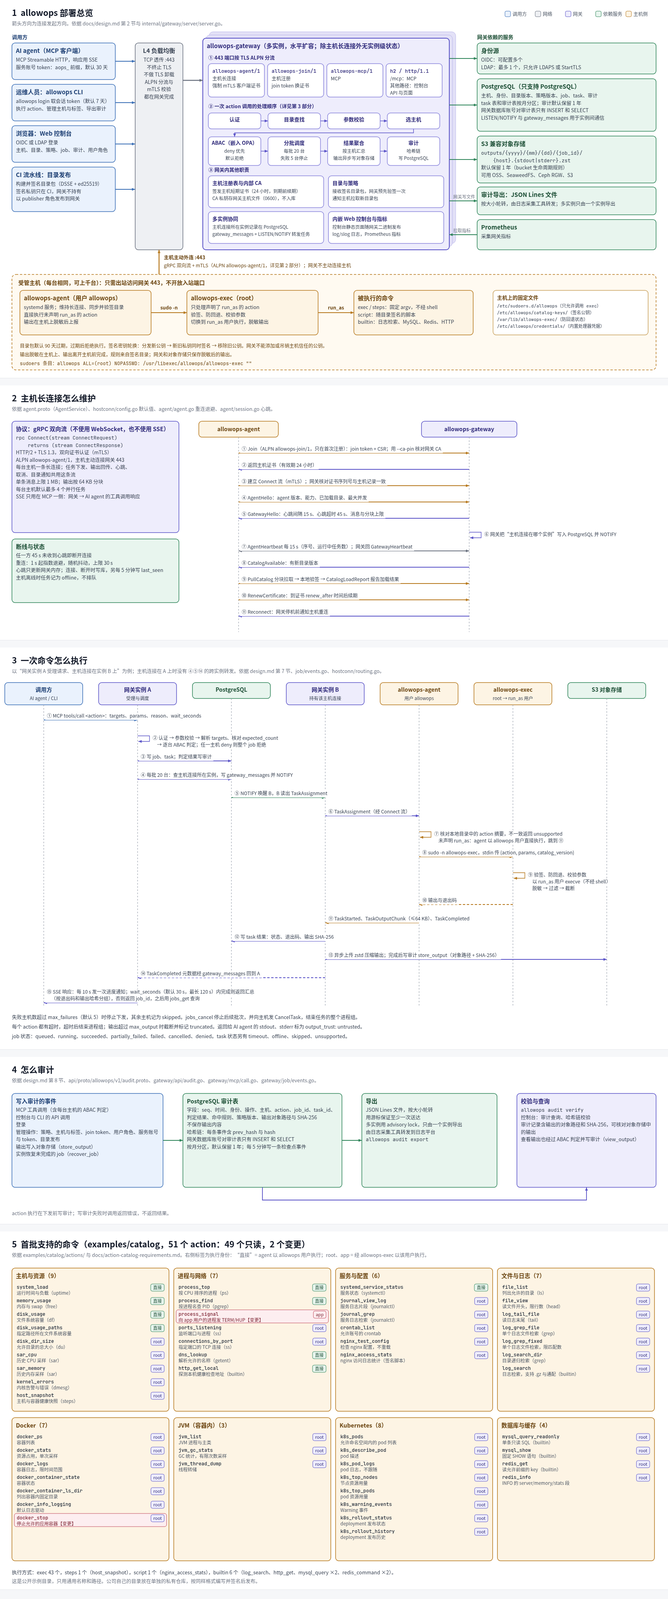
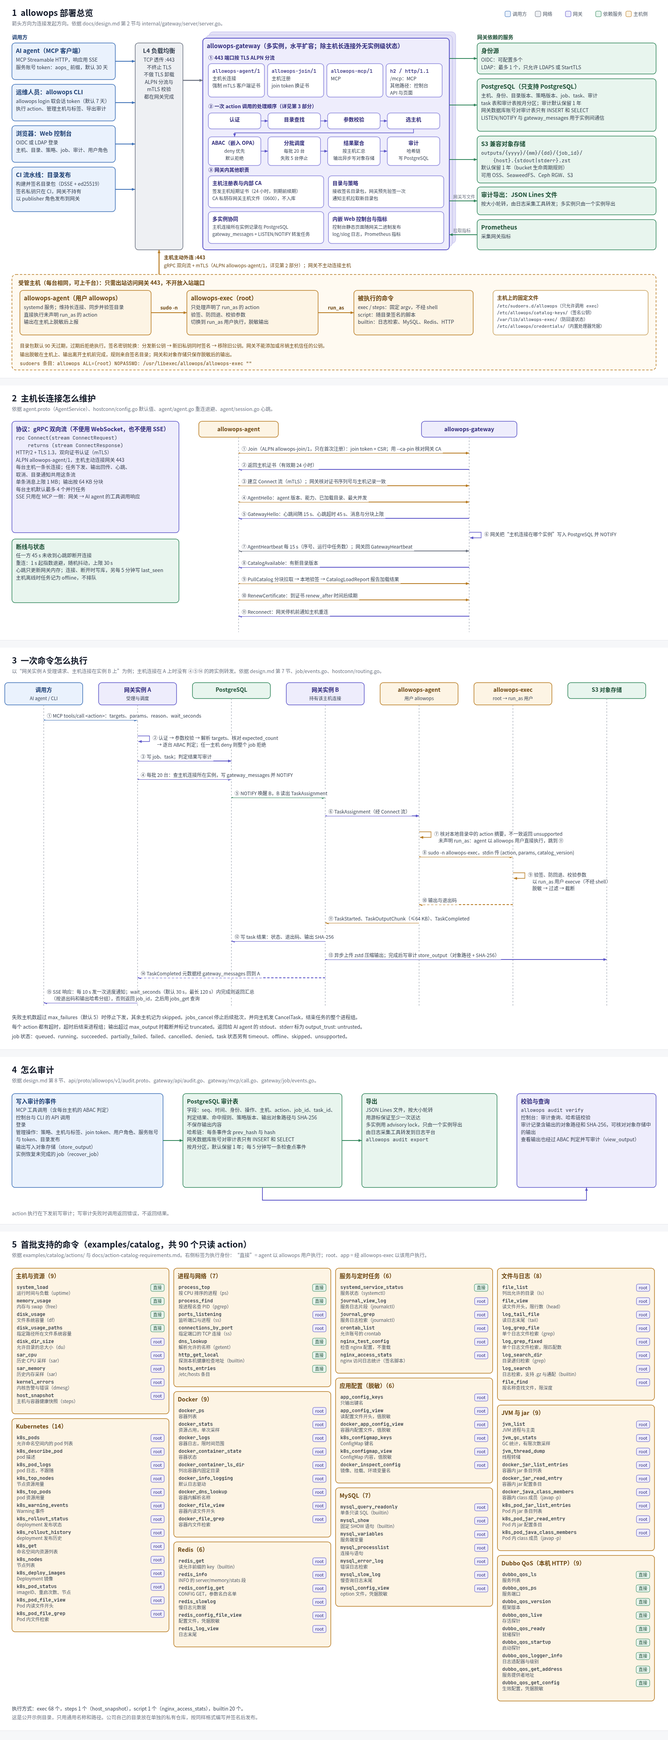
docs(catalog): record round 4 review results, redaction rules and corrected counts

diff --git a/docs/architecture-diagram.html b/docs/architecture-diagram.html
@@ -300,40 +300,43 @@ arrow([[a2.cx, a2.b], [a2.cx, 360], [a4.cx, 360], [a4.cx, a4.b]], { color: C.gw.
 label('action 执行在下发前写审计；写审计失败时调用返回错误，不返回结果。', 30, 398, { fs: 12.5, color: '#6b7280' });
 
 // ═════════ 5. 首批支持的命令 ═════════
-canvas('actions', 900);
-heading('5', '首批支持的命令（examples/catalog，首批 49 个只读 action）', '依据 examples/catalog/actions/ 与 docs/action-catalog-requirements.md。右侧标签为执行身份：“直接”= agent 以 allowops 用户执行；root、app = 经 allowops-exec 以该用户执行。');
 const groups = [
   ['主机与资源', [
-    ['system_load', '运行时间与负载（uptime）', '直接'], ['memory_usage', '内存与 swap（free）', '直接'], ['disk_usage', '文件系统容量（df）', '直接'],
-    ['disk_usage_paths', '指定路径所在文件系统容量', '直接'], ['disk_dir_size', '允许目录的总大小（du）', 'root'], ['sar_cpu', '历史 CPU 采样（sar）', 'root'],
-    ['sar_memory', '历史内存采样（sar）', 'root'], ['kernel_errors', '内核告警与错误（dmesg）', 'root'], ['host_snapshot', '主机与容器健康快照（steps）', 'root']]],
+    ['system_load', '运行时间与负载（uptime）', '直接'], ['memory_usage', '内存与 swap（free）', '直接'], ['disk_usage', '文件系统容量（df）', '直接'], ['disk_usage_paths', '指定路径所在文件系统容量', '直接'], ['disk_dir_size', '允许目录的总大小（du）', 'root'], ['sar_cpu', '历史 CPU 采样（sar）', 'root'], ['sar_memory', '历史内存采样（sar）', 'root'], ['kernel_errors', '内核告警与错误（dmesg）', 'root'], ['host_snapshot', '主机与容器健康快照（steps）', 'root']]],
   ['进程与网络', [
-    ['process_top', '按 CPU 排序的进程（ps）', '直接'], ['process_find', '按进程名查 PID（pgrep）', '直接'],
-    ['ports_listening', '监听端口与进程（ss）', 'root'], ['connections_by_port', '指定端口的 TCP 连接（ss）', 'root'], ['dns_lookup', '解析允许的名称（getent）', '直接'],
-    ['http_get_local', '探测本机健康检查地址（builtin）', '直接']]],
-  ['服务与配置', [
-    ['systemd_service_status', '服务状态（systemctl）', '直接'], ['journal_view_log', '服务日志片段（journalctl）', 'root'], ['journal_grep', '服务日志检索（journalctl）', 'root'],
-    ['crontab_list', '允许账号的 crontab', 'root'], ['nginx_test_config', '检查 nginx 配置，不重载', 'root'], ['nginx_access_stats', 'nginx 访问日志统计（签名脚本）', 'root']]],
+    ['process_top', '按 CPU 排序的进程（ps）', '直接'], ['process_find', '按进程名查 PID（pgrep）', '直接'], ['ports_listening', '监听端口与进程（ss）', 'root'], ['connections_by_port', '指定端口的 TCP 连接（ss）', 'root'], ['dns_lookup', '解析允许的名称（getent）', '直接'], ['http_get_local', '探测本机健康检查地址（builtin）', '直接'], ['hosts_entries', '/etc/hosts 条目', '直接']]],
+  ['服务与定时任务', [
+    ['systemd_service_status', '服务状态（systemctl）', '直接'], ['journal_view_log', '服务日志片段（journalctl）', 'root'], ['journal_grep', '服务日志检索（journalctl）', 'root'], ['crontab_list', '允许账号的 crontab', 'root'], ['nginx_test_config', '检查 nginx 配置，不重载', 'root'], ['nginx_access_stats', 'nginx 访问日志统计（签名脚本）', 'root']]],
   ['文件与日志', [
-    ['file_list', '列出允许的目录（ls）', 'root'], ['file_view', '读文件开头，限行数（head）', 'root'], ['log_tail_file', '读日志末尾（tail）', 'root'],
-    ['log_grep_file', '单个日志文件检索（grep）', 'root'], ['log_grep_fixed', '单个日志文件检索，限匹配数', 'root'], ['log_search_dir', '目录递归检索（grep）', 'root'],
-    ['log_search', '日志检索，支持 .gz 与通配（builtin）', 'root']]],
+    ['file_list', '列出允许的目录（ls）', 'root'], ['file_view', '读文件开头，限行数（head）', 'root'], ['log_tail_file', '读日志末尾（tail）', 'root'], ['log_grep_file', '单个日志文件检索（grep）', 'root'], ['log_grep_fixed', '单个日志文件检索，限匹配数', 'root'], ['log_search_dir', '目录递归检索（grep）', 'root'], ['log_search', '日志检索，支持 .gz 与通配（builtin）', 'root'], ['file_find', '按名称查找文件，限深度', 'root']]],
+  ['应用配置（脱敏）', [
+    ['app_config_keys', '只输出键名', 'root'], ['app_config_view', '读配置文件开头，值脱敏', 'root'], ['docker_app_config_view', '容器内配置文件，值脱敏', 'root'], ['k8s_configmap_keys', 'ConfigMap 键名', 'root'], ['k8s_configmap_view', 'ConfigMap 内容，值脱敏', 'root'], ['docker_inspect_config', '镜像、挂载、环境变量名', 'root']]],
   ['Docker', [
-    ['docker_ps', '容器列表', 'root'], ['docker_stats', '资源占用，单次采样', 'root'], ['docker_logs', '容器日志，限时间范围', 'root'],
-    ['docker_container_state', '容器状态', 'root'], ['docker_container_ls_dir', '列出容器内固定目录', 'root'], ['docker_info_logging', '默认日志驱动', 'root']]],
-  ['JVM（容器内）', [
-    ['jvm_list', 'JVM 进程与主类', 'root'], ['jvm_gc_stats', 'GC 统计，有限次数采样', 'root'], ['jvm_thread_dump', '线程转储', 'root']]],
+    ['docker_ps', '容器列表', 'root'], ['docker_stats', '资源占用，单次采样', 'root'], ['docker_logs', '容器日志，限时间范围', 'root'], ['docker_container_state', '容器状态', 'root'], ['docker_container_ls_dir', '列出容器内固定目录', 'root'], ['docker_info_logging', '默认日志驱动', 'root'], ['docker_dns_lookup', '容器内解析名称', 'root'], ['docker_file_view', '容器内读文件开头', 'root'], ['docker_file_grep', '容器内文件检索', 'root']]],
+  ['JVM 与 jar', [
+    ['jvm_list', 'JVM 进程与主类', 'root'], ['jvm_gc_stats', 'GC 统计，有限次数采样', 'root'], ['jvm_thread_dump', '线程转储', 'root'], ['docker_jar_list_entries', '容器内 jar 条目列表', 'root'], ['docker_jar_read_entry', '容器内 jar 配置条目', 'root'], ['docker_java_class_members', '容器内 class 成员（javap -p）', 'root'], ['k8s_pod_jar_list_entries', 'Pod 内 jar 条目列表', 'root'], ['k8s_pod_jar_read_entry', 'Pod 内 jar 配置条目', 'root'], ['k8s_pod_java_class_members', 'Pod 内 class 成员（javap -p）', 'root']]],
   ['Kubernetes', [
-    ['k8s_pods', '允许命名空间内的 pod 列表', 'root'], ['k8s_describe_pod', 'pod 描述', 'root'], ['k8s_pod_logs', 'pod 日志，不跟随', 'root'],
-    ['k8s_top_nodes', '节点资源用量', 'root'], ['k8s_top_pods', 'pod 资源用量', 'root'], ['k8s_warning_events', 'Warning 事件', 'root'],
-    ['k8s_rollout_status', 'deployment 发布状态', 'root'], ['k8s_rollout_history', 'deployment 发布历史', 'root']]],
-  ['数据库与缓存', [
-    ['mysql_query_readonly', '单条只读 SQL（builtin）', 'root'], ['mysql_show', '固定 SHOW 语句（builtin）', 'root'],
-    ['redis_get', '读允许前缀的 key（builtin）', 'root'], ['redis_info', 'INFO 的 server/memory/stats 段', 'root']]],
+    ['k8s_pods', '允许命名空间内的 pod 列表', 'root'], ['k8s_describe_pod', 'pod 描述', 'root'], ['k8s_pod_logs', 'pod 日志，不跟随', 'root'], ['k8s_top_nodes', '节点资源用量', 'root'], ['k8s_top_pods', 'pod 资源用量', 'root'], ['k8s_warning_events', 'Warning 事件', 'root'], ['k8s_rollout_status', 'deployment 发布状态', 'root'], ['k8s_rollout_history', 'deployment 发布历史', 'root'], ['k8s_get', '命名空间内资源列表', 'root'], ['k8s_nodes', '节点列表', 'root'], ['k8s_deploy_images', 'Deployment 镜像', 'root'], ['k8s_pod_status', 'imageID、重启次数、节点', 'root'], ['k8s_pod_file_view', 'Pod 内读文件开头', 'root'], ['k8s_pod_file_grep', 'Pod 内文件检索', 'root']]],
+  ['MySQL', [
+    ['mysql_query_readonly', '单条只读 SQL（builtin）', 'root'], ['mysql_show', '固定 SHOW 语句（builtin）', 'root'], ['mysql_variables', '服务端变量', 'root'], ['mysql_processlist', '连接与语句', 'root'], ['mysql_error_log', '错误日志检索', 'root'], ['mysql_slow_log', '慢查询日志末尾', 'root'], ['mysql_config_view', 'option 文件，凭据脱敏', 'root']]],
+  ['Redis', [
+    ['redis_get', '读允许前缀的 key（builtin）', 'root'], ['redis_info', 'INFO 的 server/memory/stats 段', 'root'], ['redis_config_get', 'CONFIG GET，参数名白名单', 'root'], ['redis_slowlog', '慢日志元数据', 'root'], ['redis_config_file_view', '配置文件，凭据脱敏', 'root'], ['redis_log_view', '日志末尾', 'root']]],
+  ['Dubbo QoS（本机 HTTP）', [
+    ['dubbo_qos_ls', '服务列表', '直接'], ['dubbo_qos_ps', '服务端口', '直接'], ['dubbo_qos_version', '框架版本', '直接'], ['dubbo_qos_live', '存活探针', '直接'], ['dubbo_qos_ready', '就绪探针', '直接'], ['dubbo_qos_startup', '启动探针', '直接'], ['dubbo_qos_logger_info', '日志适配器与级别', '直接'], ['dubbo_qos_get_address', '服务提供者地址', '直接'], ['dubbo_qos_get_config', '生效配置，凭据脱敏', '直接']]],
 ];
-const gw4 = 395, gh = 360;
+const gw4 = 395, rowH = 34;
+const gHeight = (items) => 52 + items.length * rowH + 8;
+const colY = [92, 92, 92, 92], place = [];
+groups.forEach(([title, items]) => {
+  let c = 0; for (let k = 1; k < 4; k++) if (colY[k] < colY[c]) c = k;
+  place.push([30 + c * (gw4 + 12), colY[c], gHeight(items)]);
+  colY[c] += gHeight(items) + 12;
+});
+const footY = Math.max(...colY) + 12;
+canvas('actions', footY + 50);
+heading('5', '首批支持的命令（examples/catalog，共 90 个只读 action）', '依据 examples/catalog/actions/ 与 docs/action-catalog-requirements.md。右侧标签为执行身份：“直接”= agent 以 allowops 用户执行；root、app = 经 allowops-exec 以该用户执行。');
 groups.forEach(([title, items], i) => {
-  const x = 30 + (i % 4) * (gw4 + 12), y = 92 + Math.floor(i / 4) * (gh + 16);
+  const [x, y, gh] = place[i];
   box(x, y, gw4, gh, C.host, `${title}（${items.length}）`, [], { ts: 14.5 });
   items.forEach(([n, d, who, write], k) => {
     const yy = y + 52 + k * 34;
@@ -346,8 +349,8 @@ groups.forEach(([title, items], i) => {
     label(who, x + gw4 - tw / 2 - 12, yy + 1, { fs: 11, color: tc.title, align: 'center' });
   });
 });
-label('执行方式：exec 43 个，steps 1 个（host_snapshot），script 1 个（nginx_access_stats），builtin 6 个（log_search、http_get、mysql_query ×2、redis_command ×2）。', 30, 862, { fs: 12.5 });
-label('这是公开示例目录，只用通用名称和路径。公司自己的目录放在单独的私有仓库，按同样格式编写并签名后发布。', 30, 884, { fs: 12.5, color: '#6b7280' });
+label('执行方式：exec 68 个，steps 1 个（host_snapshot），script 1 个（nginx_access_stats），builtin 20 个。', 30, footY, { fs: 12.5 });
+label('这是公开示例目录，只用通用名称和路径。公司自己的目录放在单独的私有仓库，按同样格式编写并签名后发布。', 30, footY + 22, { fs: 12.5, color: '#6b7280' });
 </script>
 </body>
 </html>

diff --git a/docs/action-catalog-requirements.md b/docs/action-catalog-requirements.md
@@ -4,7 +4,7 @@
 
 allowops 只执行运维人员预先定义、评审并签名的 action。本节点提供公开示例的需求和 YAML，不实现执行器，不生成已签名目录包。
 
-依据为 `design.md` 第 4、5 节及扩展执行能力表，`architecture-decisions.md` 第 9、13、18、20、21 节。AC1B 按 `internal/catalog/`、`internal/params/`、`internal/builtin/` 和 `internal/executor/` 的实际字段与行为对齐。本文与 `examples/catalog/actions/` 一一对应，共 90 个 action，均为 risk: read；2026-10-22 起删除了 docker_stop、process_signal 两个写操作，并按 `action-usage-analysis.md` 第 6.5 节新增 34 个只读 action（含替换 dns_lookup 的定义）；审阅后 `app_config_grep`、`docker_app_config_grep` 删除并由 `app_config_view`、`docker_app_config_view` 替代，`k8s_configmap_grep` 改名为 `k8s_configmap_view`；之后新增 7 个 MySQL 与 Redis 日志、参数、配置查询 action（`mysql_variables`、`mysql_processlist`、`mysql_error_log`、`mysql_slow_log`、`mysql_config_view`、`redis_config_file_view`、`redis_log_view`）。
+依据为 `design.md` 第 4、5 节及扩展执行能力表，`architecture-decisions.md` 第 9、13、18、20、21 节。AC1B 按 `internal/catalog/`、`internal/params/`、`internal/builtin/` 和 `internal/executor/` 的实际字段与行为对齐。本文与 `examples/catalog/actions/` 一一对应，共 90 个 action，均为 risk: read；2026-10-22 起删除了 docker_stop、process_signal 两个写操作，并按 `action-usage-analysis.md` 第 6.5 节相对 2026-10-22 计划基线（`44d82fb`，51 个 action）新增 41 个，修改 `dns_lookup` 和 `file_view`，删除 2 个（`git diff 44d82fb..HEAD` 统计 A 41、M 2、D 2，51 + 41 - 2 = 90）。`dns_lookup` 的定义被替换为正则约束的主机名参数，`file_view` 在第四轮审阅中增加了文件脱敏规则。新增项中，`app_config_grep`、`docker_app_config_grep` 经审阅删除并由 `app_config_view`、`docker_app_config_view` 替代，`k8s_configmap_grep` 改名为 `k8s_configmap_view`；其中 7 个是 MySQL 与 Redis 日志、参数、配置查询 action（`mysql_variables`、`mysql_processlist`、`mysql_error_log`、`mysql_slow_log`、`mysql_config_view`、`redis_config_file_view`、`redis_log_view`）。
 
 第 18 节的 19 个名称与使用分析的 39 个名称合并。重复名称共 7 个：`process_top`、`ports_listening`、`log_tail_file`、`docker_ps`、`docker_stats`、`docker_container_state`、`docker_logs`。同名定义按使用分析第 4 节合并，`ports_listening`、`log_tail_file` 增加 D1，`docker_logs` 增加 D1 和可选 until；其他同名定义保留对应用途。没有需要改名的冲突。
 
@@ -50,7 +50,17 @@ filters 是允许 agent 传入的过滤参数集合，`[]` 表示不允许过滤
 
 处理顺序为 stdout → 脱敏 → match/exclude → head/tail/count → 截断。过滤不能查询未脱敏内容；stderr 脱敏并截断，不过滤。组合 action 按步骤 stdout 独立过滤，所有步骤的 stdout+stderr 共用 max_output；普通 exec/script/builtin 的 stdout、stderr 分别受 max_output 限制。max_scan 按每个步骤 stdout 原始字节计，超限报告 scan_limit_reached；输出或处理器资源上限报告 truncated，处理器另报告 resource_limit_reached。依据：A13、A17、`internal/executor/executor.go` 的 `RunWithFilters`、`processOutput`、`runCommand`。上述任一上限标记均表示结果可能不全。
 
-所有示例保留 secrets。日志、文件内容、数据库值等额外启用 pii。action 的 redact 覆盖全局规则，因此覆盖时仍显式保留 secrets；没有示例关闭脱敏。secrets 包含第 20 节 D9 的数据库命令行及环境变量规则。pii 可能误伤数字标识，正则不能识别所有敏感内容；此目录不声称输出能全部去敏。设计规定运行时 IP 地址和主机名不脱敏，公开示例不包含任何实际环境数据。
+所有示例保留 secrets，没有示例关闭脱敏。action 的 redact 覆盖全局规则，因此覆盖时仍显式保留 secrets。额外启用 pii 的 action 共 36 个，读取日志、文件内容、配置文件、数据库值和 HTTP 响应体的 action 属于这一类；其余 54 个只保留 secrets，包括系统指标、进程和网络状态、Docker 与 K8s 元数据、jar 条目名和类成员、键名列表、`hosts_entries`（运行时地址和主机名不脱敏，不启用 pii）、除 `dubbo_qos_get_address`、`dubbo_qos_get_config` 之外的 Dubbo QoS、`mysql_variables`、`mysql_config_view`、`redis_config_file_view` 和 `redis_config_get`。这个划分以示例 YAML 为准，不表示后一类 action 的输出一定不含个人信息。pii 可能误伤数字标识，正则不能识别所有敏感内容；此目录不声称输出能全部去敏。设计规定运行时 IP 地址和主机名不脱敏，公开示例不包含任何实际环境数据。
+
+内置 secrets 规则集（`internal/redact/redact.go` 的 `secretRules`，按顺序执行）包含：阿里云和 AWS 访问密钥、JWT、`Authorization: Bearer`、URL 凭据（用户名可为空，如 `redis://:口令@host`；口令可含 `@`，取到 token 内最后一个 `@`；Oracle thin 的 `jdbc:oracle:thin:用户/口令@host`）、`MYSQL_PWD`、`REDISCLI_AUTH`、password、secret、token 后紧跟 `=` 的赋值、任意方案的 `Authorization` 与 `Proxy-Authorization` 头、`X-*-Key/Token/Secret/Auth/Pass` 头及 nginx 的 `proxy_set_header`、`add_header` 等指令、htpasswd 哈希（apr1、`$1$`、`$5$`、`$6$`、bcrypt、yescrypt、`{SHA}`、`{SSHA}`）、名称以凭据词结尾的键（`DB_PASSWORD=x`、`access_token=x`）及冒号形式 `NAME: 值`（kubectl describe pod 的 Environment 段、YAML、JSON）、命令行口令（`--password`、`--token`、`--requirepass` 等长选项，`curl -u`、`--user`、`redis-cli -a`、`sshpass -p`）和 `mysql -p`。因此 `file_view`、`log_*`、`docker_logs`、`k8s_pod_logs`、`crontab_list`、`k8s_describe_pod` 等只启用内置规则的 action 也覆盖这些形式。示例中的 `redact.custom` 规则保留，与内置规则叠加（内置先执行，自定义后执行）；测试 `TestExampleCustomRulesComposeWithBuiltinRules` 验证两种顺序都不泄露、无嵌套标记、重复脱敏结果不变。
+
+误伤取舍：冒号形式和带前缀的 `=` 形式按键名脱敏，键名必须以凭据词结尾（password、passwd、passphrase、secret、token、credential、credentials、apikey、pwd，以及 api、access、secret、private、auth、encryption、signing、master 后接可选的 `_` 或 `-` 再加 key），因此 `token_count`、`max_tokens`、`tokenizer`、`SecretName`、`TokenExpirationSeconds`、`Image Pull Secrets`、`primary_key`、`key: value`、`PWD=/opt/app` 不受影响。会被脱敏的普通日志：键名为凭据词本身且后跟冒号的句子，如 `INFO token: 5 refreshed`、`INFO password: changed successfully`、`failed to read secret: not found`。未加引号的值从冒号后脱敏到行尾，原因是口令可能含空格或逗号，只取一个词会在口令含空格时泄露后半段；加引号的值只替换引号内部，同一 JSON 行的其他字段保留。kubectl describe 中 valueFrom 引用（`<set to the key 'k' in secret 's'>  Optional: false`）整行保留，便于看到引用的 Secret 名，其他 Environment 行整行替换（变量名也被隐藏）。URL 口令中未编码的 `/` 会提前结束匹配（RFC 要求编码为 `%2F`），此时口令会明文输出。命令行规则：`-u`、`-a`、`-p` 只在同一行出现 curl、redis-cli 或 valkey-cli、sshpass 时识别，`docker exec -u 1000:1000`、`mysql -u root`、`ps -a`、`ssh -p 2222` 不受影响；`--token <名称>`、`--secret <名称>` 这类传名称的选项会被替换（过度脱敏）；`--no-*`、`--ask-*`、`--skip-*`、`--disable-*`、`--without-*` 开头的选项不替换。
+
+内置规则仍不识别：多行结构（kubectl describe 的 Command/Args 逐行输出 `--requirepass` 与口令分行、YAML 键与值分行、XML name 与 value 分行）；nginx 空白分隔的指令（`fastcgi_param DB_PASSWORD hunter2;`、`uwsgi_param API_TOKEN v;`、`binddn_passwd "v";`、`set $token v;`），因为内置规则只在 `=` 或 `:` 之后取值，这些指令由 `file_view`、五个配置读取 action 和四个容器、Pod 文件 action 的自定义规则 nginx_param_credential、nginx_secret_directive 处理；键名不含凭据词的位置上的敏感值（`login as admin/Hunter2`）；Cookie 与 Set-Cookie 头；sqlplus、connect 形式的 `user/口令@host`（只识别 `jdbc:oracle:thin|oci|oci8:` 前缀）；redis.conf 的 requirepass 指令行（由 `redis_config_file_view` 的自定义规则处理）；crypt(3) 13 字符 DES htpasswd 哈希；含 `/` 的未编码 URL 口令；`docker login -p`、`ldapsearch -w`、`htpasswd -b` 等其他命令的口令选项；curl 同一行出现多个 `-u` 时只处理第一个（`--proxy-user` 单独处理）。
+
+性能：redact 规则增加小写子串预检（`compiledRule.needs`，行内不含必要子串的规则跳过；含非 ASCII 字符的行不预检，因为 `(?i)` 会匹配 U+017F、U+212A 等字符）。实测 10 MB 普通日志（secrets 加 pii，单行约 150 字节）经 Stream 脱敏：`50f3311` 为 1.82 s（5.8 MB/s），第四轮分支为 0.37 s（约 28 MB/s）。不加预检时新规则使吞吐降到 1.4 MB/s（10 s 超时内约 14 MB），因此预检是必需的。测试 `TestRuleNeedsNeverChangeTheResult` 对 8000 条随机拼接行（含 U+017F、U+212A）比较有预检与无预检的结果必须一致。单行 1 MB 的最坏输入每次约 0.4 到 0.9 s。
+
+行为变化：`{"password":"x","user":"bob"}` 在 `docker_file_view` 等同时有 json_credential 自定义规则的 action 中，标记由 `[REDACTED:json_credential]` 变为 `[REDACTED:credential]`（内置先执行），键名前的引号会残留（`{"[REDACTED:credential],"user":"bob"}`）。`Authorization: Basic`、`Digest` 现在由内置规则脱敏，`TestSecretRuleExamples` 中 `Authorization: Basic abc` 的期望值随之改为 `[REDACTED:auth_header]`。
 
 ### 目录签名和权限
 
@@ -429,11 +439,11 @@ exec: [/usr/bin/docker, exec, '{container}', getent, hosts, '{name}']
 | run_as | root |
 | 执行方式 | exec |
 | filters | match, exclude, tail, head, count |
-| redact | secrets, pii，另有自定义规则 sensitive_property、json_credential、auth_header、api_key_header、htpasswd_hash |
+| redact | secrets, pii，另有自定义规则 sensitive_property、json_credential、auth_header、api_key_header、htpasswd_hash、nginx_param_credential、nginx_secret_directive |
 | 扩展能力 | D1、D4 |
 | 执行限制 | timeout=20s；max_output=64KB |
 | CentOS 7 | CentOS 7 需另装 Docker CLI 并运行兼容的 Docker 服务；该示例的选项是否可用须在目标版本验证。/usr/bin/docker 缺失时标记 unsupported。容器内需有支持 -F、-n、-m、-e 的 grep（GNU grep 或 busybox grep）。无匹配时 grep 退出码为 1，action 报告失败。 |
-| 安全说明 | Docker 包装命令后的执行目标固定为 grep，禁止解释器和 TTY；模式使用 -e，路径前使用 --，两者均不会被当作选项。容器内路径无法在主机检查，使用锚定正则限制在固定根目录内，且每个路径段以非点字符开头，无法出现 .. 段。正则不能阻止容器内已有的符号链接：根目录内指向其他位置的链接会被 grep 跟随（实测 /var/log/app/pw.log -> /etc/passwd 可读，只限该容器文件系统，不涉及主机）。输出先脱敏再过滤。内置 secrets 规则只匹配 password、secret、token 后紧跟等号的形式，因此增加自定义规则：sensitive_property（键名含 pass、pwd、secret、token、key、credential，后接 `=` 或 `:`，从键名到行尾替换，覆盖 `password: v`、`client_secret: v`、`db_password: v`、`X-Api-Key: v`）、json_credential（`"password":"v"`）、auth_header（`Authorization`、`Proxy-Authorization` 的头值，含 nginx `proxy_set_header Authorization "Basic ..."` 写法）、api_key_header（`X-` 开头且名称含 key、token、secret、auth、pass、pwd、credential 的头值，含 `proxy_set_header X-Api-Key v;` 写法）、htpasswd_hash（`$apr1$`、`$1$`、`$5$`、`$6$`、`$2y$` 等 crypt 格式及 `{SHA}`、`{SSHA}` 哈希，仅替换哈希，用户名保留）。限制：不识别 crypt(3) 的 13 位 DES 哈希；nginx `set $token v;` 等无冒号或等号的写法不识别；键名含关键字的普通文本（如 `bypass: true`）也会被替换。 检索根目录只含日志目录 /var/log、/data/logs，不含 /etc/nginx：grep 在原文上匹配后才脱敏，调用方可以用是否命中（退出码 0 或 1、输出是否为空）判断被脱敏的内容是否含某字符串（实测对 `proxy_set_header Authorization "Basic …";` 一行，pattern 为其中的密文时退出码 0，为不存在的字符串时退出码 1），因此配置文件不能放进检索根目录；原因和同类 action 见第 4 节第 11 项。根目录内指向配置文件的符号链接同样会被检索，须由镜像或运维保证日志目录内没有这类链接。 |
+| 安全说明 | Docker 包装命令后的执行目标固定为 grep，禁止解释器和 TTY；模式使用 -e，路径前使用 --，两者均不会被当作选项。容器内路径无法在主机检查，使用锚定正则限制在固定根目录内，且每个路径段以非点字符开头，无法出现 .. 段。正则不能阻止容器内已有的符号链接：根目录内指向其他位置的链接会被 grep 跟随（实测 /var/log/app/pw.log -> /etc/passwd 可读，只限该容器文件系统，不涉及主机）。输出先脱敏再过滤。内置 secrets 规则只匹配 password、secret、token 后紧跟等号的形式，因此增加自定义规则：sensitive_property（键名含 pass、pwd、secret、token、key、credential，后接 `=` 或 `:`，从键名到行尾替换，覆盖 `password: v`、`client_secret: v`、`db_password: v`、`X-Api-Key: v`）、json_credential（`"password":"v"`）、auth_header（`Authorization`、`Proxy-Authorization` 的头值，含 nginx `proxy_set_header Authorization "Basic ..."` 写法）、api_key_header（`X-` 开头且名称含 key、token、secret、auth、pass、pwd、credential 的头值，含 `proxy_set_header X-Api-Key v;` 写法）、htpasswd_hash（`$apr1$`、`$1$`、`$5$`、`$6$`、`$2y$` 等 crypt 格式及 `{SHA}`、`{SSHA}` 哈希，仅替换哈希，用户名保留）。限制：不识别 crypt(3) 的 13 位 DES 哈希；nginx `set $token v;` 等无冒号或等号的写法不识别；键名含关键字的普通文本（如 `bypass: true`）也会被替换。 检索根目录只含日志目录 /var/log、/data/logs，不含 /etc/nginx：grep 在原文上匹配后才脱敏，调用方可以用是否命中（退出码 0 或 1、输出是否为空）判断被脱敏的内容是否含某字符串（实测对 `proxy_set_header Authorization "Basic …";` 一行，pattern 为其中的密文时退出码 0，为不存在的字符串时退出码 1），因此配置文件不能放进检索根目录；原因和同类 action 见第 4 节第 11 项。根目录内指向配置文件的符号链接同样会被检索，须由镜像或运维保证日志目录内没有这类链接。 第四轮审阅（redaction/F3）：与 `file_view` 一样增加 nginx_param_credential（`fastcgi_param DB_PASSWORD v;`、`uwsgi_param API_TOKEN v;`、`set $token v;`）和 nginx_secret_directive（`binddn_passwd "v";`），两条规则的正则与 `file_view` 相同。 |
 
 参数：
 
@@ -460,11 +470,11 @@ exec: [/usr/bin/docker, exec, '{container}', grep, -F, -n, -m, '{max_matches}', 
 | run_as | root |
 | 执行方式 | exec |
 | filters | match, exclude, tail, head, count |
-| redact | secrets, pii，另有自定义规则 sensitive_property、json_credential、auth_header、api_key_header、htpasswd_hash |
+| redact | secrets, pii，另有自定义规则 sensitive_property、json_credential、auth_header、api_key_header、htpasswd_hash、nginx_param_credential、nginx_secret_directive |
 | 扩展能力 | D1、D4 |
 | 执行限制 | timeout=10s；max_output=64KB |
 | CentOS 7 | CentOS 7 需另装 Docker CLI 并运行兼容的 Docker 服务；该示例的选项是否可用须在目标版本验证。/usr/bin/docker 缺失时标记 unsupported。容器内需有支持 -n 和 -- 的 head。 |
-| 安全说明 | Docker 包装命令后的执行目标固定为 head，禁止解释器和 TTY；路径前使用 --。容器内路径无法在主机检查，使用锚定正则限制在固定根目录内，每个路径段以非点字符开头，无法出现 .. 段。正则不能阻止容器内已有的符号链接：根目录内指向其他位置的链接会被 head 跟随（实测 /var/log/app/pw.log -> /etc/passwd 可读，只限该容器文件系统，不涉及主机）。最多读取 500 行，输出由 max_output 限制为 64KB。内置 secrets 规则只匹配 password、secret、token 后紧跟等号的形式，因此增加自定义规则：sensitive_property（键名含 pass、pwd、secret、token、key、credential，后接 `=` 或 `:`，从键名到行尾替换，覆盖 `password: v`、`client_secret: v`、`db_password: v`、`X-Api-Key: v`）、json_credential（`"password":"v"`）、auth_header（`Authorization`、`Proxy-Authorization` 的头值，含 nginx `proxy_set_header Authorization "Basic ..."` 写法）、api_key_header（`X-` 开头且名称含 key、token、secret、auth、pass、pwd、credential 的头值，含 `proxy_set_header X-Api-Key v;` 写法）、htpasswd_hash（`$apr1$`、`$1$`、`$5$`、`$6$`、`$2y$` 等 crypt 格式及 `{SHA}`、`{SSHA}` 哈希，仅替换哈希，用户名保留）。限制：不识别 crypt(3) 的 13 位 DES 哈希；nginx `set $token v;` 等无冒号或等号的写法不识别；键名含关键字的普通文本（如 `bypass: true`）也会被替换。 |
+| 安全说明 | Docker 包装命令后的执行目标固定为 head，禁止解释器和 TTY；路径前使用 --。容器内路径无法在主机检查，使用锚定正则限制在固定根目录内，每个路径段以非点字符开头，无法出现 .. 段。正则不能阻止容器内已有的符号链接：根目录内指向其他位置的链接会被 head 跟随（实测 /var/log/app/pw.log -> /etc/passwd 可读，只限该容器文件系统，不涉及主机）。最多读取 500 行，输出由 max_output 限制为 64KB。内置 secrets 规则只匹配 password、secret、token 后紧跟等号的形式，因此增加自定义规则：sensitive_property（键名含 pass、pwd、secret、token、key、credential，后接 `=` 或 `:`，从键名到行尾替换，覆盖 `password: v`、`client_secret: v`、`db_password: v`、`X-Api-Key: v`）、json_credential（`"password":"v"`）、auth_header（`Authorization`、`Proxy-Authorization` 的头值，含 nginx `proxy_set_header Authorization "Basic ..."` 写法）、api_key_header（`X-` 开头且名称含 key、token、secret、auth、pass、pwd、credential 的头值，含 `proxy_set_header X-Api-Key v;` 写法）、htpasswd_hash（`$apr1$`、`$1$`、`$5$`、`$6$`、`$2y$` 等 crypt 格式及 `{SHA}`、`{SSHA}` 哈希，仅替换哈希，用户名保留）。限制：不识别 crypt(3) 的 13 位 DES 哈希；nginx `set $token v;` 等无冒号或等号的写法不识别；键名含关键字的普通文本（如 `bypass: true`）也会被替换。 第四轮审阅（redaction/F3）：与 `file_view` 一样增加 nginx_param_credential（`fastcgi_param DB_PASSWORD v;`、`uwsgi_param API_TOKEN v;`、`set $token v;`）和 nginx_secret_directive（`binddn_passwd "v";`），两条规则的正则与 `file_view` 相同。 |
 
 参数：
 
@@ -1529,11 +1539,11 @@ exec_fallbacks: [/usr/local/bin/kubectl]
 | run_as | root |
 | 执行方式 | exec |
 | filters | match, exclude, tail, head, count |
-| redact | secrets, pii，另有自定义规则 sensitive_property、json_credential、auth_header、api_key_header、htpasswd_hash |
+| redact | secrets, pii，另有自定义规则 sensitive_property、json_credential、auth_header、api_key_header、htpasswd_hash、nginx_param_credential、nginx_secret_directive |
 | 扩展能力 | D1、D5 |
 | 执行限制 | timeout=20s；max_output=64KB |
 | CentOS 7 | CentOS 7 不自带 kubectl；须安装与集群版本兼容的二进制，并提供固定的只读 kubeconfig。首选 /usr/bin/kubectl，缺失时尝试 /usr/local/bin/kubectl；缺失或功能不支持时标记 unsupported。容器内需有支持 -F、-n、-m、-e 的 grep。无匹配时 grep 退出码为 1，action 报告失败。 |
-| 安全说明 | 命名空间和容器使用枚举，Pod 名称不能以连字符开头；固定使用 `exec -n <ns> <pod> [-c <container>] --`，不使用 -i、-t，无 stdin 和 TTY；包装命令后真正执行的 grep 通过解释器检查。kubectl exec 需要 pods/exec 的 create 权限，这不是纯只读 RBAC：持有该权限的凭据理论上可在 Pod 内执行任意命令，只读 kubeconfig 的 RBAC 必须仅授予允许的命名空间，并由运维评审；allowops 的签名 argv 是唯一的约束。禁用 kubeconfig 的 exec 认证插件。模式使用 -e，路径前使用 --。容器内路径无法在主机检查，使用锚定正则限制在固定根目录内，每个路径段以非点字符开头，无法出现 .. 段；容器内已有符号链接可被跟随。内置 secrets 规则只匹配 password、secret、token 后紧跟等号的形式，因此增加自定义规则：sensitive_property（键名含 pass、pwd、secret、token、key、credential，后接 `=` 或 `:`，从键名到行尾替换，覆盖 `password: v`、`client_secret: v`、`db_password: v`、`X-Api-Key: v`）、json_credential（`"password":"v"`）、auth_header（`Authorization`、`Proxy-Authorization` 的头值，含 nginx `proxy_set_header Authorization "Basic ..."` 写法）、api_key_header（`X-` 开头且名称含 key、token、secret、auth、pass、pwd、credential 的头值，含 `proxy_set_header X-Api-Key v;` 写法）、htpasswd_hash（`$apr1$`、`$1$`、`$5$`、`$6$`、`$2y$` 等 crypt 格式及 `{SHA}`、`{SSHA}` 哈希，仅替换哈希，用户名保留）。限制：不识别 crypt(3) 的 13 位 DES 哈希；nginx `set $token v;` 等无冒号或等号的写法不识别；键名含关键字的普通文本（如 `bypass: true`）也会被替换。 检索根目录只含日志目录 /var/log、/data/logs，不含 /etc/nginx：grep 在原文上匹配后才脱敏，调用方可以用是否命中（退出码 0 或 1、输出是否为空）判断被脱敏的内容是否含某字符串（实测对 `proxy_set_header Authorization "Basic …";` 一行，pattern 为其中的密文时退出码 0，为不存在的字符串时退出码 1），因此配置文件不能放进检索根目录；原因和同类 action 见第 4 节第 11 项。根目录内指向配置文件的符号链接同样会被检索，须由镜像或运维保证日志目录内没有这类链接。 |
+| 安全说明 | 命名空间和容器使用枚举，Pod 名称不能以连字符开头；固定使用 `exec -n <ns> <pod> [-c <container>] --`，不使用 -i、-t，无 stdin 和 TTY；包装命令后真正执行的 grep 通过解释器检查。kubectl exec 需要 pods/exec 的 create 权限，这不是纯只读 RBAC：持有该权限的凭据理论上可在 Pod 内执行任意命令，只读 kubeconfig 的 RBAC 必须仅授予允许的命名空间，并由运维评审；allowops 的签名 argv 是唯一的约束。禁用 kubeconfig 的 exec 认证插件。模式使用 -e，路径前使用 --。容器内路径无法在主机检查，使用锚定正则限制在固定根目录内，每个路径段以非点字符开头，无法出现 .. 段；容器内已有符号链接可被跟随。内置 secrets 规则只匹配 password、secret、token 后紧跟等号的形式，因此增加自定义规则：sensitive_property（键名含 pass、pwd、secret、token、key、credential，后接 `=` 或 `:`，从键名到行尾替换，覆盖 `password: v`、`client_secret: v`、`db_password: v`、`X-Api-Key: v`）、json_credential（`"password":"v"`）、auth_header（`Authorization`、`Proxy-Authorization` 的头值，含 nginx `proxy_set_header Authorization "Basic ..."` 写法）、api_key_header（`X-` 开头且名称含 key、token、secret、auth、pass、pwd、credential 的头值，含 `proxy_set_header X-Api-Key v;` 写法）、htpasswd_hash（`$apr1$`、`$1$`、`$5$`、`$6$`、`$2y$` 等 crypt 格式及 `{SHA}`、`{SSHA}` 哈希，仅替换哈希，用户名保留）。限制：不识别 crypt(3) 的 13 位 DES 哈希；nginx `set $token v;` 等无冒号或等号的写法不识别；键名含关键字的普通文本（如 `bypass: true`）也会被替换。 检索根目录只含日志目录 /var/log、/data/logs，不含 /etc/nginx：grep 在原文上匹配后才脱敏，调用方可以用是否命中（退出码 0 或 1、输出是否为空）判断被脱敏的内容是否含某字符串（实测对 `proxy_set_header Authorization "Basic …";` 一行，pattern 为其中的密文时退出码 0，为不存在的字符串时退出码 1），因此配置文件不能放进检索根目录；原因和同类 action 见第 4 节第 11 项。根目录内指向配置文件的符号链接同样会被检索，须由镜像或运维保证日志目录内没有这类链接。 第四轮审阅（redaction/F3）：与 `file_view` 一样增加 nginx_param_credential（`fastcgi_param DB_PASSWORD v;`、`uwsgi_param API_TOKEN v;`、`set $token v;`）和 nginx_secret_directive（`binddn_passwd "v";`），两条规则的正则与 `file_view` 相同。 |
 
 参数：
 
@@ -1564,11 +1574,11 @@ exec_fallbacks: [/usr/local/bin/kubectl]
 | run_as | root |
 | 执行方式 | exec |
 | filters | match, exclude, tail, head, count |
-| redact | secrets, pii，另有自定义规则 sensitive_property、json_credential、auth_header、api_key_header、htpasswd_hash |
+| redact | secrets, pii，另有自定义规则 sensitive_property、json_credential、auth_header、api_key_header、htpasswd_hash、nginx_param_credential、nginx_secret_directive |
 | 扩展能力 | D1、D5 |
 | 执行限制 | timeout=15s；max_output=64KB |
 | CentOS 7 | CentOS 7 不自带 kubectl；须安装与集群版本兼容的二进制，并提供固定的只读 kubeconfig。首选 /usr/bin/kubectl，缺失时尝试 /usr/local/bin/kubectl；缺失或功能不支持时标记 unsupported。容器内需有支持 -n 和 -- 的 head。 |
-| 安全说明 | 命名空间和容器使用枚举，Pod 名称不能以连字符开头；固定使用 `exec -n <ns> <pod> [-c <container>] --`，不使用 -i、-t，无 stdin 和 TTY；包装命令后真正执行的 head 通过解释器检查。kubectl exec 需要 pods/exec 的 create 权限，这不是纯只读 RBAC：持有该权限的凭据理论上可在 Pod 内执行任意命令，只读 kubeconfig 的 RBAC 必须仅授予允许的命名空间，并由运维评审；allowops 的签名 argv 是唯一的约束。禁用 kubeconfig 的 exec 认证插件。容器内路径无法在主机检查，使用锚定正则限制在固定根目录内，每个路径段以非点字符开头，无法出现 .. 段；容器内已有符号链接可被跟随。最多读取 500 行，输出由 max_output 限制为 64KB。内置 secrets 规则只匹配 password、secret、token 后紧跟等号的形式，因此增加自定义规则：sensitive_property（键名含 pass、pwd、secret、token、key、credential，后接 `=` 或 `:`，从键名到行尾替换，覆盖 `password: v`、`client_secret: v`、`db_password: v`、`X-Api-Key: v`）、json_credential（`"password":"v"`）、auth_header（`Authorization`、`Proxy-Authorization` 的头值，含 nginx `proxy_set_header Authorization "Basic ..."` 写法）、api_key_header（`X-` 开头且名称含 key、token、secret、auth、pass、pwd、credential 的头值，含 `proxy_set_header X-Api-Key v;` 写法）、htpasswd_hash（`$apr1$`、`$1$`、`$5$`、`$6$`、`$2y$` 等 crypt 格式及 `{SHA}`、`{SSHA}` 哈希，仅替换哈希，用户名保留）。限制：不识别 crypt(3) 的 13 位 DES 哈希；nginx `set $token v;` 等无冒号或等号的写法不识别；键名含关键字的普通文本（如 `bypass: true`）也会被替换。 |
+| 安全说明 | 命名空间和容器使用枚举，Pod 名称不能以连字符开头；固定使用 `exec -n <ns> <pod> [-c <container>] --`，不使用 -i、-t，无 stdin 和 TTY；包装命令后真正执行的 head 通过解释器检查。kubectl exec 需要 pods/exec 的 create 权限，这不是纯只读 RBAC：持有该权限的凭据理论上可在 Pod 内执行任意命令，只读 kubeconfig 的 RBAC 必须仅授予允许的命名空间，并由运维评审；allowops 的签名 argv 是唯一的约束。禁用 kubeconfig 的 exec 认证插件。容器内路径无法在主机检查，使用锚定正则限制在固定根目录内，每个路径段以非点字符开头，无法出现 .. 段；容器内已有符号链接可被跟随。最多读取 500 行，输出由 max_output 限制为 64KB。内置 secrets 规则只匹配 password、secret、token 后紧跟等号的形式，因此增加自定义规则：sensitive_property（键名含 pass、pwd、secret、token、key、credential，后接 `=` 或 `:`，从键名到行尾替换，覆盖 `password: v`、`client_secret: v`、`db_password: v`、`X-Api-Key: v`）、json_credential（`"password":"v"`）、auth_header（`Authorization`、`Proxy-Authorization` 的头值，含 nginx `proxy_set_header Authorization "Basic ..."` 写法）、api_key_header（`X-` 开头且名称含 key、token、secret、auth、pass、pwd、credential 的头值，含 `proxy_set_header X-Api-Key v;` 写法）、htpasswd_hash（`$apr1$`、`$1$`、`$5$`、`$6$`、`$2y$` 等 crypt 格式及 `{SHA}`、`{SSHA}` 哈希，仅替换哈希，用户名保留）。限制：不识别 crypt(3) 的 13 位 DES 哈希；nginx `set $token v;` 等无冒号或等号的写法不识别；键名含关键字的普通文本（如 `bypass: true`）也会被替换。 第四轮审阅（redaction/F3）：与 `file_view` 一样增加 nginx_param_credential（`fastcgi_param DB_PASSWORD v;`、`uwsgi_param API_TOKEN v;`、`set $token v;`）和 nginx_secret_directive（`binddn_passwd "v";`），两条规则的正则与 `file_view` 相同。 |
 
 参数：
 
@@ -2898,9 +2908,9 @@ exec: [/usr/bin/systemctl, status, '{service}', --no-pager]
 
 3. **http_get 参数和配置（部分确定，P12B）**：url 为必填 url 类型，无默认值，allowed_prefixes 来自 builtin_config；配置仅支持 allowed_prefixes、headers、timeout、max_response_bytes。URL 按规范化后的同源和路径分量边界检查；拒绝用户信息、片段、点分量和编码分隔符；不跟随跳转，不使用代理。响应体计量为原始响应字节，未启用自动解压；默认及目录硬上限为 64KB，响应头上限另为 64KB。输出仅含状态码、Content-Type、Content-Length、Location 和响应体；非 2xx 也返回退出码 0，status_code 单独给出。依据：A15、A16，`internal/catalog/builtin_adapters.go` 的 `httpGetConfig`、`httpGetHandler.Parameters`，`internal/params/url.go`，`internal/builtin/httpget/httpget.go`。**待确认**：解析 DNS 后是否增加地址白名单检查。当前代码没有该检查；建议公开本机示例使用固定回环地址或明确受控的 localhost 解析，通用域名探测另行定义解析与连接地址策略。
 
-4. **redis_command 参数和配置（已确定，P12B/P12D）**：处理器提供 command 枚举和可选 args（string_array），不提供 key、section；command 无默认值。配置支持 credential、address、db、timeout、max_response_bytes、max_scan_count，以及 P12D 的 commands、key_prefixes、info_sections。commands 同时收紧对外 command 枚举；key_prefixes 按大小写敏感的字面前缀检查键；info_sections 收紧 INFO 分节，省略分节参数时只按配置顺序汇总允许集合。redis_get 仅允许 GET/app: 前缀，args 正则和 max_len=128 保留原键字符与长度限制；redis_info 仅允许 INFO 的 server/memory/stats，拒绝 all/default/everything。大小默认及目录硬上限为 64KB，SCAN COUNT 上限为 1000。address 接受 host:port 或绝对 Unix socket URI；凭据为 root 属主、0600 的 JSON，username/password 均可省略，最大 16KB。GET 先 STRLEN 后 GETRANGE；HGET/MGET 先检查长度，检查与取值不是原子操作。超大 GET/HGET/MGET 返回错误、退出码 1，并标 resource_limit_reached/truncated；INFO/SCAN 解码后截断返回文本，退出码 0。这是当前实现的资源拒绝行为，不能把 A16 的成功截断结论用于所有 Redis 超限情况。依据：`builtin-config.md`，`internal/catalog/builtin_adapters.go` 的 `redisConfig`、`redisHandler.Parameters`，`internal/builtin/redis/redis.go` 的 `validateCommand`、`readConfiguredResponse`、`readResponse`。G30 的命令、前缀、分节配置缺口已由 P12D 实现；内置参数默认值仍不支持，见下表。
+4. **redis_command 参数和配置（已确定，P12B/P12D）**：处理器提供 command 枚举和可选 args（string_array），不提供 key、section；command 无默认值。配置支持 credential、address、db、timeout、max_response_bytes、max_scan_count，以及 P12D 的 commands、key_prefixes、info_sections 和 config_params。commands 同时收紧对外 command 枚举，省略时允许前 13 个命令，不含 CONFIG 和 SLOWLOG（二者必须显式列出）；key_prefixes 按大小写敏感的字面前缀检查键；info_sections 收紧 INFO 分节，省略分节参数时只按配置顺序汇总允许集合。redis_get 仅允许 GET/app: 前缀，args 正则和 max_len=128 保留原键字符与长度限制；redis_info 仅允许 INFO 的 server/memory/stats，拒绝 all/default/everything。redis_config_get 配置 commands=[CONFIG] 和 25 个 config_params，只允许 `CONFIG GET` 的参数名；以 acl 开头或含 pass、auth、user 的名称即使列入 config_params 也拒绝；多个参数名需要 Redis 7.0 及以上，旧版本一次一个；`replica-read-only` 在 5.0 之前名为 `slave-read-only`，示例同时列出。redis_slowlog 配置 commands=[SLOWLOG]，只允许 `SLOWLOG GET [count]`（1 到 128）和 `SLOWLOG LEN`，每条记录只保留 `[编号, 时间戳, 耗时微秒, 命令名, 参数个数, 客户端地址]`，不返回命令参数和客户端名称；配置 key_prefixes 后 SLOWLOG GET 拒绝。大小默认及目录硬上限为 64KB，SCAN COUNT 上限为 1000。address 接受 host:port 或绝对 Unix socket URI；凭据为 root 属主、0600 的 JSON，username/password 均可省略，最大 16KB。GET 先 STRLEN 后 GETRANGE；HGET/MGET 先检查长度，检查与取值不是原子操作。超大 GET/HGET/MGET 返回错误、退出码 1，并标 resource_limit_reached/truncated；INFO/SCAN 解码后截断返回文本，退出码 0。这是当前实现的资源拒绝行为，不能把 A16 的成功截断结论用于所有 Redis 超限情况。依据：`builtin-config.md`，`internal/catalog/builtin_adapters.go` 的 `redisConfig`、`redisHandler.Parameters`，`internal/builtin/redis/redis.go` 的 `validateCommand`、`readConfiguredResponse`、`readResponse`。G30 的命令、前缀、分节配置缺口已由 P12D 实现；内置参数默认值仍不支持，见下表。
 
-5. **mysql_query 参数和配置（部分确定，P12C/P12D）**：处理器提供必填 database/sql string，不允许改为枚举或添加默认值。本例用 `database.regex: ^app$` 固定默认库；mysql_show 保留 `sql.regex: ^SHOW (TABLES|STATUS)$`，只允许这两条精确 SQL。配置支持 credential、address、max_rows、timeout，以及 P12D 的 databases、statement_types、show_types；默认 500 行、10s，目录只能收紧。两个示例都配置 databases=[app]，数据库参数和递归 SQL AST 中的显式库名必须属于 app；不展开视图定义。mysql_show 配置 statement_types=[SHOW]、show_types=[TABLES,STATUS]，显式授权服务器级 STATUS；它的返回结果不会按 app 库过滤。mysql_query_readonly 配置 [SELECT,SHOW,DESCRIBE,EXPLAIN]，使用 DESCRIBE 表示 DESC；EXPLAIN 的目标类型也必须允许（G31）。它不配置 show_types，因此 G34 拒绝服务器级 SHOW DATABASES/PROCESSLIST/VARIABLES/STATUS，以及无法确定目标库的 SHOW。凭据为 root 属主、0600 的 JSON，username/password 两字段必填；最大 16KB。SQL 解析器只允许单条只读语句，支持 CTE、UNION、子查询；拒绝写语句、INTO、锁定读取、变量赋值、未知函数、执行注释/提示和 EXPLAIN ANALYZE。会话设置 max_execution_time 或只读事务失败时直接报错，不静默忽略。依据：`builtin-config.md`（G31、G34），`internal/catalog/builtin.go` 的 `MySQLConfig`、`ParameterDefinitions`，`internal/builtin/mysql/mysql.go` 的 `Run`、`beginReadOnly`，`internal/builtin/mysql/validate.go` 的 `databaseVisitor`、`validateStatement`。G30 的数据库和语句范围配置缺口已由 P12D 实现。**待确认**：目标部署的只读账号最低授权、视图/函数权限及 MySQL 兼容版本；代码不能确定目标数据库的权限。建议仅授权所需库表的读取权限，不授予 FILE、EXECUTE 或管理权限，逐条验证需要的 SHOW 权限；单个字段字节量没有处理器上限，应另行评估资源限制。
+5. **mysql_query 参数和配置（部分确定，P12C/P12D）**：处理器提供必填 database/sql string，不允许改为枚举或添加默认值。本例用 `database.regex: ^app$` 固定默认库；mysql_show 保留 `sql.regex: ^SHOW (TABLES|STATUS)$`，只允许这两条精确 SQL。配置支持 credential、address、max_rows、timeout，以及 P12D 的 databases、statement_types、show_types；默认 500 行、10s，目录只能收紧。所有 mysql_query 示例（mysql_show、mysql_query_readonly、mysql_variables、mysql_processlist）都配置 databases=[app]，数据库参数和递归 SQL AST 中的显式库名必须属于 app；mysql_variables 配置 statement_types=[SHOW]、show_types=[VARIABLES]，mysql_processlist 配置 statement_types=[SHOW]、show_types=[PROCESSLIST]，两者都是 G34 的服务器级 SHOW 显式授权，返回结果不按 app 库过滤；不展开视图定义。mysql_show 配置 statement_types=[SHOW]、show_types=[TABLES,STATUS]，显式授权服务器级 STATUS；它的返回结果不会按 app 库过滤。mysql_query_readonly 配置 [SELECT,SHOW,DESCRIBE,EXPLAIN]，使用 DESCRIBE 表示 DESC；EXPLAIN 的目标类型也必须允许（G31）。它不配置 show_types，因此 G34 拒绝服务器级 SHOW DATABASES/PROCESSLIST/VARIABLES/STATUS，以及无法确定目标库的 SHOW。凭据为 root 属主、0600 的 JSON，username/password 两字段必填；最大 16KB。SQL 解析器只允许单条只读语句，支持 CTE、UNION、子查询；拒绝写语句、INTO、锁定读取、变量赋值、未知函数、执行注释/提示和 EXPLAIN ANALYZE。会话设置 max_execution_time 或只读事务失败时直接报错，不静默忽略。依据：`builtin-config.md`（G31、G34），`internal/catalog/builtin.go` 的 `MySQLConfig`、`ParameterDefinitions`，`internal/builtin/mysql/mysql.go` 的 `Run`、`beginReadOnly`，`internal/builtin/mysql/validate.go` 的 `databaseVisitor`、`validateStatement`。G30 的数据库和语句范围配置缺口已由 P12D 实现。**待确认**：目标部署的只读账号最低授权、视图/函数权限及 MySQL 兼容版本；代码不能确定目标数据库的权限。建议仅授权所需库表的读取权限，不授予 FILE、EXECUTE 或管理权限，逐条验证需要的 SHOW 权限；单个字段字节量没有处理器上限，应另行评估资源限制。
 
 6. **D1/D2 输出契约（已确定）**：head/tail 接受正整数，没有额外固定上限；count 为布尔值；tail/head/count 互斥，match/exclude 可与其中之一组合。过滤只作用于脱敏后的 stdout；stderr 仅脱敏、截断。组合 action 按步骤过滤，全部步骤 stdout+stderr 共用 max_output，总退出码取首个失败步骤的退出码。max_scan 按每步原始 stdout 计，超限标 scan_limit_reached；不能仅检查 truncated 判断扫描结果是否全部返回。依据：A13、A17，`internal/executor/filters.go`、`internal/executor/executor.go` 的 `RunWithFilters`、`processOutput`、`runCommand`。
 
@@ -2912,7 +2922,7 @@ exec: [/usr/bin/systemctl, status, '{service}', --no-pager]
 
 10. **写操作（已删除）**：2026-10-22 起示例目录不含任何 risk 不是 read 的 action，process_signal 和 docker_stop 已删除。写操作如需恢复，须单独评审授权范围（PID 复用、容器强制终止、Docker root 权限、容器挂载和容器内链接），本节点没有执行任何写 action。
 
-11. **按模式检索的 action 在原文上匹配（已确定）**：以下 action 把调用方给出的 pattern 交给 grep、journalctl 或内置 log_search，在未脱敏的原文上匹配，匹配之后才脱敏输出：`log_grep_file`、`log_grep_fixed`、`log_search_dir`、`log_search`、`journal_grep`、`docker_file_grep`、`k8s_pod_file_grep`、`mysql_error_log`、`mysql_slow_log`。调用方可以用是否命中（退出码、输出是否为空、`count` 过滤的结果）判断原文是否含某字符串，逐字符试探即可还原被脱敏的值，脱敏规则不能阻止这一点。因此这些 action 的检索根目录只能放日志，不能放含凭据的配置文件：`docker_file_grep`、`k8s_pod_file_grep` 的根目录已去掉 `/etc/nginx`，其余 action 的根目录限于 `/var/log`、`/data/logs`（`journal_grep` 检索 journald）。日志本身可能含凭据，这类内容只能靠脱敏降低暴露，不能保证无法试探；运维评审 catalog 时须保证检索根目录内没有配置文件，也没有指向配置文件的符号链接。读取配置的 action（`app_config_view`、`docker_app_config_view`、`k8s_configmap_view`、`docker_jar_read_entry`、`k8s_pod_jar_read_entry`、`mysql_config_view`、`redis_config_file_view`）不接受 pattern，退出码与内容无关，match 与 exclude 只作用于脱敏之后的输出。数据库查询（`mysql_query_readonly`）的 WHERE 条件作用于原值，其范围由数据库账号的权限决定。依据：`docker_file_grep` 实测，`/etc/nginx/nginx.conf` 含 `proxy_set_header Authorization "Basic …";` 时，pattern 为其中的密文返回退出码 0，为不存在的字符串返回退出码 1，两种情况的输出都不含密文。
+11. **按模式检索的 action 在原文上匹配（已确定）**：以下 action 把调用方给出的 pattern 交给 grep、journalctl 或内置 log_search，在未脱敏的原文上匹配，匹配之后才脱敏输出：`log_grep_file`、`log_grep_fixed`、`log_search_dir`、`log_search`、`journal_grep`、`docker_file_grep`、`k8s_pod_file_grep`、`mysql_error_log`。`mysql_slow_log` 在第四轮审阅（redaction/F2）中改为不接受 pattern，只读取文件末尾 N 行，脱敏后才由 match、exclude 过滤，已不属于此类。调用方可以用是否命中（退出码、输出是否为空、`count` 过滤的结果）判断原文是否含某字符串，逐字符试探即可还原被脱敏的值，脱敏规则不能阻止这一点。因此这些 action 的检索根目录只能放日志，不能放含凭据的配置文件：`docker_file_grep`、`k8s_pod_file_grep` 的根目录已去掉 `/etc/nginx`，其余 action 的根目录限于 `/var/log`、`/data/logs`（`journal_grep` 检索 journald）。日志本身可能含凭据，这类内容只能靠脱敏降低暴露，不能保证无法试探；运维评审 catalog 时须保证检索根目录内没有配置文件，也没有指向配置文件的符号链接。读取配置的 action（`app_config_view`、`docker_app_config_view`、`k8s_configmap_view`、`docker_jar_read_entry`、`k8s_pod_jar_read_entry`、`mysql_config_view`、`redis_config_file_view`、`mysql_slow_log`、`redis_log_view`）不接受 pattern，退出码与内容无关，match 与 exclude 只作用于脱敏之后的输出。数据库查询（`mysql_query_readonly`）的 WHERE 条件作用于原值，其范围由数据库账号的权限决定。依据：`docker_file_grep` 实测，`/etc/nginx/nginx.conf` 含 `proxy_set_header Authorization "Basic …";` 时，pattern 为其中的密文返回退出码 0，为不存在的字符串返回退出码 1，两种情况的输出都不含密文。
 
 ### G30 示例收紧结果（P12D）
 
